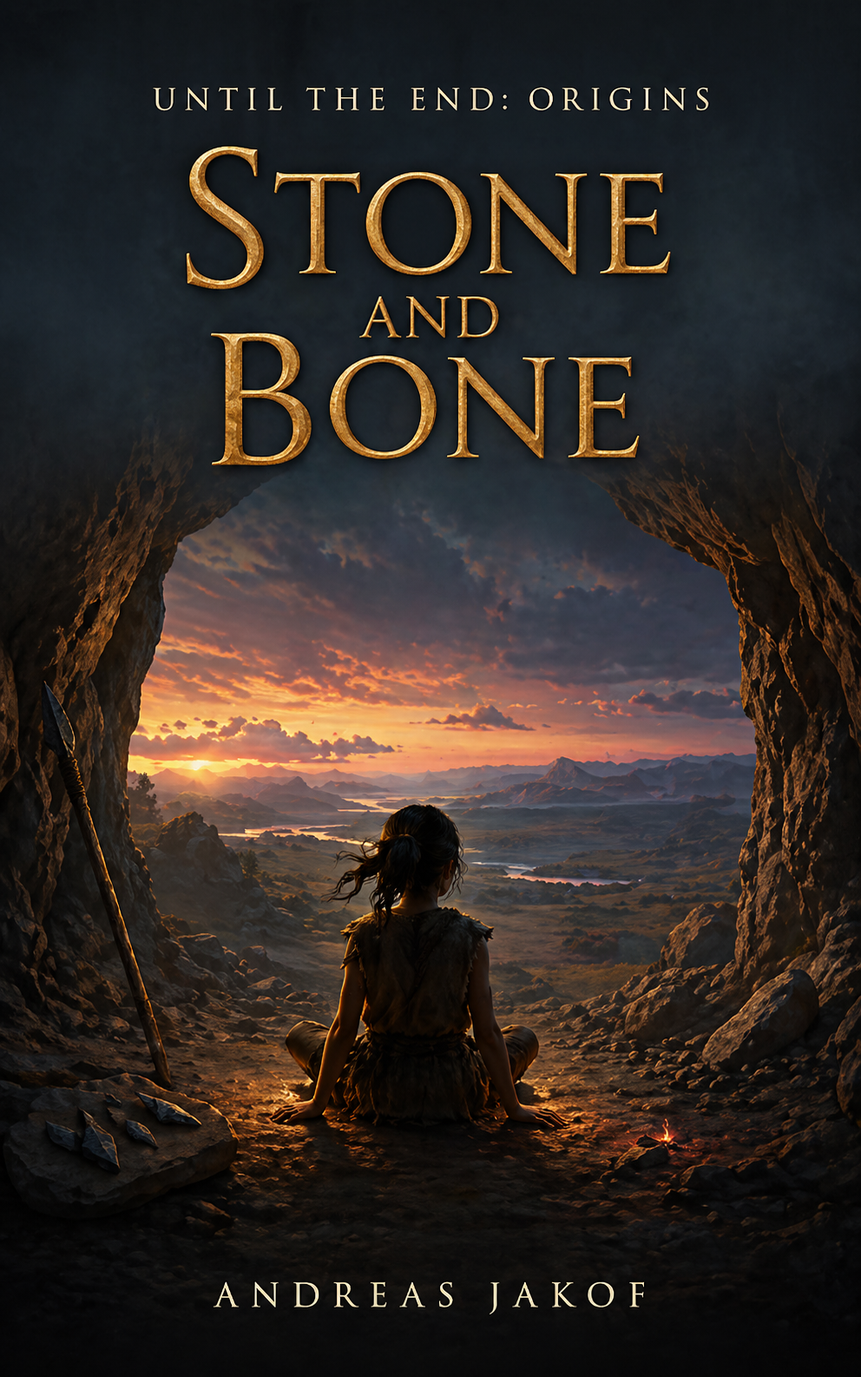
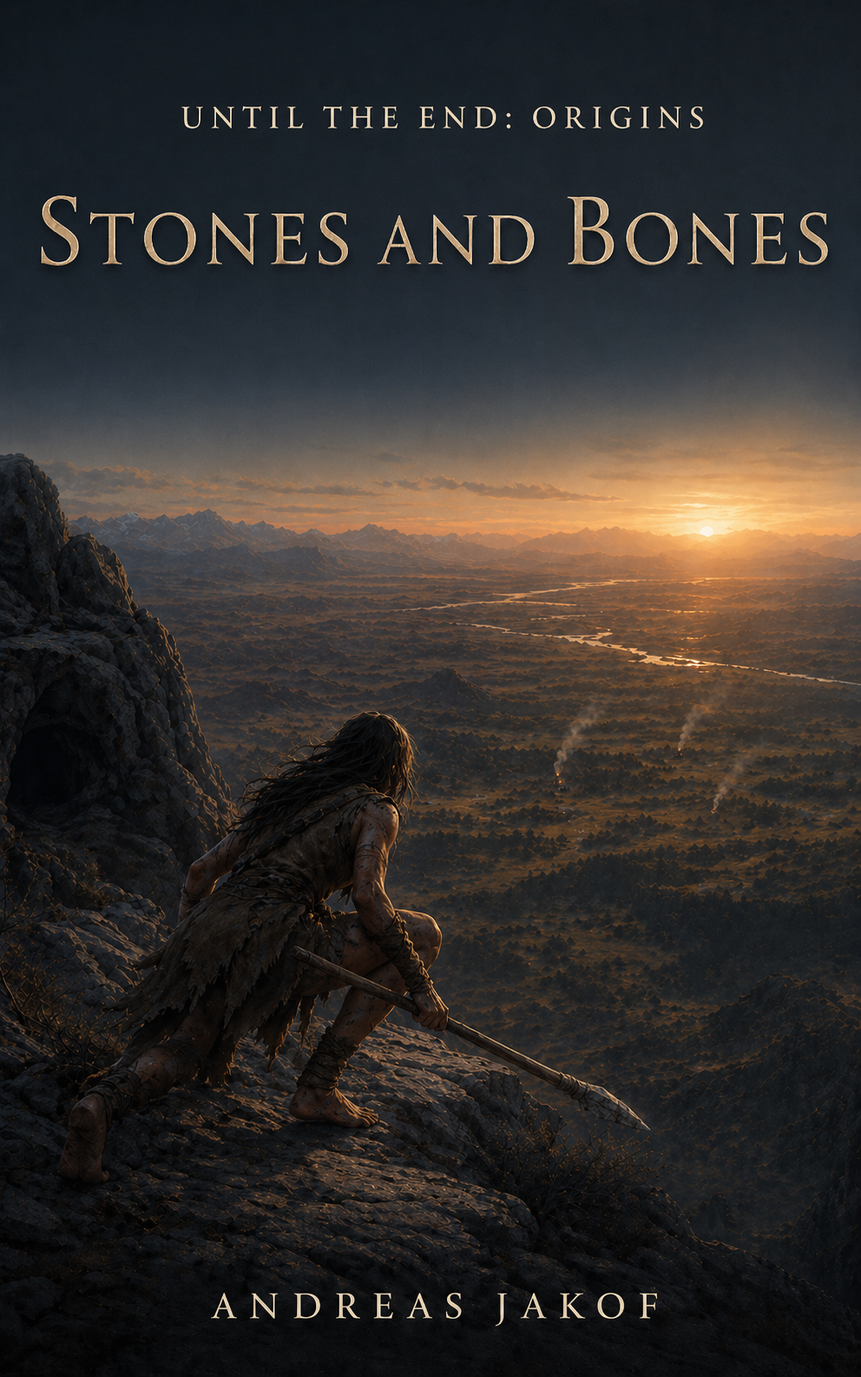
7-3-01-18

diff --git a/temp_analytics.py b/temp_analytics.py
@@ -1,0 +1,22 @@
+import re, json
+
+with open('40 - WorkingStuff/Analytics/General Analytics _ Royal Road-2026-04-13T11-50.html', 'r', encoding='utf-8') as f:
+    content = f.read()
+
+m = re.search(r'readerActivityData\s*=\s*(\[.*?\]);', content, re.DOTALL)
+data = json.loads(m.group(1))
+print(f"Chapters: {len(data)}")
+total = sum(ch.get('views', 0) for ch in data)
+print(f"Total views: {total}")
+print()
+print("First 5:")
+for ch in data[:5]:
+    t = ch.get('title', '?')[:35]
+    v = ch.get('views', 0)
+    print(f"  {t:35s} {v:>5}")
+print()
+print("Last 10:")
+for ch in data[-10:]:
+    t = ch.get('title', '?')[:35]
+    v = ch.get('views', 0)
+    print(f"  {t:35s} {v:>5}")

diff --git a/20 - Chapters/02 - UTE/7 - Clouds/7-2-09-17.md b/20 - Chapters/02 - UTE/7 - Clouds/7-2-09-17.md
@@ -1,19 +1,16 @@
-You were cooking.
-Evening. The rain had stopped, or paused, the mountain's weather operating in cycles that didn't align with human schedules. The fire was going, the pot was on, the rice was on. You were talking. About nothing. About everything that constituted nothing, which was to say: about the mundane, aggressively ordinary content of a life lived alongside the extraordinary.
+The rain stopped, or paused. The fire was going, the pot was on, the rice was on. You were talking. About nothing. About everything that constituted nothing. About the mundane, aggressively ordinary content of a life lived alongside me.
 
-"The provisions need reorganizing," you said. "The herb pouch is leaking again. I patched it with thread but thread doesn't hold on oiled leather, it slides and the knot, the knot I used was wrong, I should have used a Zhuo-knot, the fisherman's kind that tightens under pressure rather than —"
+"... needs reorganizing," you mumbled. "The herb pouch is leaking again. The stitching frayed where it bends, right at the fold, which means I need to re-sew the whole seam, and I should use a waxed thread this time, but I don't have waxed thread so I'll have to wax it myself with candle tallow, which means melting the candle, which ..."
 
-You talked while you cooked. The talking was not communication. Not in the information-transfer sense. The talking was texture. The sound of a human being occupying time with language, filling the silence that would otherwise fill itself with the weight of everything that silence contained. You talked about the herb pouch and the knot and the stone he'd found that had a peculiar color and the way the rain had smelled different at this altitude.
+You talked while you cooked. The talking was not communication. The talking was texture. The sound of a human being occupying time with language, filling the silence that would otherwise fill itself with the weight of everything that silence contained. You talked about the herb pouch and the way the rain had smelled different at this altitude.
 
 You were, specifically and deliberately, being annoying.
 
-Not the unintentional annoyance of someone who doesn't realize they're talking too much. The tactical annoyance of a man who understood that his companion's interior landscape was a territory of dangerous weight and that the antidote to dangerous weight was, sometimes, the trivial, the mundane, the stupid. You were filling the space with normalcy the way you fill a hole with gravel. Not to beautify but to stabilize.
+Not the unintentional annoyance of someone who doesn't realize they're talking too much. The tactical annoyance of a man who understood that his companion's interior landscape was a territory of dangerous weight. And that the antidote to dangerous weight was, sometimes, the trivial, the mundane, the stupid. You were filling the space with normalcy the way you fill a hole with gravel. Not to beautify but to stabilize.
 
-"— and the rice needs watching because the fire is uneven tonight and the heat distribution is off, which means the left side burns faster than the right, which means I need to rotate the pot every —"
+"... and the rice needs watching because the fire is uneven and the heat distribution is off, which means the left side burns faster than the right, which means I need to rotate the pot every ..."
 
-I took the spoon from your hand.
-
-Quietly. Simply. I reached across the fire — the distance between us, the space that separated my cooking-abstinence from your cooking-monopoly — and I took the wooden spoon from your hand and I put it in the pot and I stirred.
+Quietly. Simply. I reached across the fire — the distance between us, the space that separated my cooking-abstinence from your cooking-monopoly — and I took the wooden spoon from your hand, put it in the pot and stirred.
 
 Rice. In a pot. Over a fire. The simplest mechanical act in the history of human food preparation. The circular motion of a utensil in a container, redistributing heat, preventing adhesion, the physics of cooking reduced to its most fundamental operation. Stir.
 
@@ -21,21 +18,17 @@ I stirred.
 
 You leaned back.
 
-You said nothing. The talking stopped — the tactical annoyance mission completed, its objective achieved not by the words but by the irritation the words produced, the irritation that had mobilized an arm that had been idle, that had prompted a hand to reach, that had resulted in the unremarkable, entirely mundane act of a woman stirring rice.
-
-You SAW it.
-
-The moment. The diagnostic recognition of a scholar identifying significance in the ordinary. The woman who had not cooked since the ridge, who had eaten or not eaten what was placed in front of her, who had been a recipient rather than a participant in the daily mechanics of sustenance. This woman had taken the spoon. Had stirred. Had inserted herself into the operational chain of meal preparation.
+The talking stopped. The tactical annoyance mission completed, its objective achieved not by the words but by the irritation the words produced. The irritation that had mobilized an arm that had been idle, that had prompted a hand to reach, that had resulted in the unremarkable, entirely mundane act of a woman stirring rice.
 
 A spoon in a pot. The smallest possible agency.
 
-I stirred. The rice was fine. Adequate. The fire was uneven, as you had said, and the left side was indeed cooking faster and the rotation was necessary and the attention to these details was real. Physical. Present. The attention of a body performing a task that required no conviction, no immortal power, no cosmic architecture. Just a hand, a spoon and the patience to keep moving them until the rice was done.
+I stirred. The rice was fine. Adequate. The fire was uneven, as you had said, and the left side was indeed cooking faster. So the rotation was necessary and the attention to these details was real. Physical. Present. Performing a task that required no conviction, no immortal power, no cosmic architecture. Just a hand, a spoon and the patience to keep moving them until the rice was done.
 
-The steam rose. The fire settled. Xiǎohú appeared from wherever she had been sheltering during the rain and found her evening position, the triangle point, the third corner of whatever shape the three of us made in the world.
+Steam rose. The fire settled. Xiǎohú appeared from wherever she had been sheltering during the rain and found her evening position, the triangle point, the third corner of whatever shape the three of us made in the world.
 
-You watched me stir. Your face was doing the thing: the non-expression that contained everything, the mask that was transparent if you knew how to read it. I had learned to read it across years and a mountain and a partnership that neither of us had asked for and neither of us would trade.
+You watched me stir. Your face was doing its thing. The non-expression that contained everything, the mask that was transparent if you knew how to read it. I had learned to read it across mountains and a partnership that neither of us had asked for and neither of us would trade.
 
-What was on your face: relief. Not dramatic, not the gasping-surfacing kind. The quiet kind. The deep-structure kind. The relief of a man who had been watching someone you cared about not-participate in life and was now watching me stir rice.
+Relief was on your face. Not the gasping-surfacing kind. The quiet kind. The deep-structure kind. The relief of a man who had been watching someone he cared about not-participate in life and who was now stirring rice.
 
 I stirred until the rice was done. Served two bowls. Set your near the fire. Held mine.
 
@@ -45,6 +38,6 @@ I ate.
 
 Not all of it. Half the bowl. The other half cooled while I sat with it, while the fire settled, while the stars appeared and disappeared behind the thinning clouds. Half a bowl, eaten with the deliberate attention of someone for whom eating was a choice. A small, human, ordinary choice.
 
-The spoon in the pot. The rice in the bowl. The steam, rising.
+The spoon in the pot. The rice in the bowl. 
 
-You watched the steam rise and your silence was the right shape for the moment.
+You watched the steam rise and your silence was the right shape for this moment.

diff --git a/20 - Chapters/02 - UTE/7 - Clouds/7-3-01-18.md b/20 - Chapters/02 - UTE/7 - Clouds/7-3-01-18.md
@@ -1,19 +1,12 @@
-The fog was mine.
-I didn't know that yet — not at the start of the morning, not in the first minutes of walking when the mist sat low and thick in the valley like something poured. I thought it was weather. Mountain weather, the kind that arrived without consultation and departed without announcement, the atmospheric caprice of high altitudes where the difference between cloud and fog was a matter of elevation.
+We had returned to higher elevations. Following the direction I felt drawn to. The last place of our return was already behind us. The trail was narrower now, the last suggestion of maintained path giving way to animal tracks and geological accident — disappeared and reappeared in the white, the intermittent visibility that fog produced, the world flickering between present and absent with each shift of the moisture.
 
-We walked into it. The trail — narrower now, the last suggestion of maintained path giving way to animal tracks and geological accident — disappeared and reappeared in the white, the intermittent visibility that fog produced, the world flickering between present and absent with each shift of the moisture.
+The fog was mine. I didn't know that yet — not at the start of the morning, not in the first minutes of walking when the mist sat low and thick in the valley like something poured. I thought it was weather. Mountain weather, the kind that arrived without consultation and departed without announcement, the atmospheric caprice of high altitudes where the difference between cloud and fog was a matter of elevation.
 
-I stopped.
-
-No reason. No external trigger. The body stopped the way the body sometimes stopped, the legs ceasing their mechanical repetition without instruction from the mind, the halt arriving from somewhere below conscious decision.
-
-A date.
-
-I couldn't determine which. Wei's death? Your birthday? The distinction had blurred — not recently, not in the way that recent memories blur into each other, but across the geological timescale that separated now from then. Millennia had sanded the edges off exact dates until all that remained was the feeling: loss-shaped, Wei-colored, the shade of absence that your death had painted onto the calendar. The numbers were gone. The feeling was permanent.
+I stopped for no apparent reason. There was no external trigger. The legs ceasing their mechanical repetition without instruction from the mind, the halt arriving from somewhere below conscious decision.
 
 "What are you thinking about?" you said.
 
-You were beside me. Three steps had become zero steps since the training, the physical closing of distance that mirrored — everything. You could see it. You could see everything about me now, the way a doctor could read a body after years of practice: the micro-expression, the halted stride, the posture of a woman standing in fog and thinking about a dead boy.
+You were beside me and you could see it. You could see everything about me now. Like a doctor could read a body after years of practice. The micro-expression, the halted stride, the posture of a woman standing in fog and thinking about a dead boy.
 
 "Someone who was better than me," I said.
 
@@ -21,18 +14,18 @@ You were beside me. Three steps had become zero steps since the training, the ph
 
 The delivery. Flat. Perfect. Your intonation that placed the line exactly on the border between provocation and comfort, the surgical deployment of humor that served as defibrillator for a heart that was threatening to stop.
 
-Almost a smile. The muscles around my mouth attempted the gesture — the upward pull, the contraction, the mechanical process of smiling — and achieved perhaps sixty percent of the intended result before the weight of the memory pulled them back.
+Almost a smile. The muscles around my mouth attempted the gesture — the upward pull, the contraction — and achieved perhaps sixty percent of the intended result before the weight of the memory pulled them back.
 
 Around us, the fog thickened.
 
-Not the gradual thickening of weather patterns responding to temperature and moisture. The immediate, responsive thickening of a medium responding to an emotion. The fog CLOSED. The visibility that had been ten meters became five, became three, the white pressing in from all sides with the intimacy of a world wrapping itself around a feeling it was compelled to express.
+Not the gradual thickening of weather patterns responding to temperature and moisture. The immediate, responsive thickening of a medium responding to an emotion. The fog closed. The visibility that had been ten meters became five, became three, the white pressing in from all sides with the intimacy of a world wrapping itself around a feeling it was compelled to express.
 
-Xiǎohú was a shape in the white — amber points at knee height, moving, the only color in a colorless world.
+Xiǎohú was a shape in the white — amber points at about knee height, moving, the only color in a colorless world.
 
-I didn't notice the fog was mine. Not yet. The awareness would come later — after the destruction, after the nest, after you named what I couldn't. For now, the fog was weather and the weather was cooperating with my mood and the cooperation was coincidence.
+I didn't notice the fog was mine. Not yet. For now, the fog was weather and the weather was cooperating with my mood and the cooperation was coincidence.
 
 Of course it was.
 
 We walked. The fog walked with us. The mountain continued its patient ascent beneath our feet, invisible now, present only as incline and texture and the effort of bodies climbing through impedance.
 
-You said nothing more. You walked beside me in the white and was quiet and the quiet was the right shape.
+You said nothing more.

diff --git a/Covers/Origins/CoverPrompt_1-StonesAndBones.md b/Covers/Origins/CoverPrompt_1-StonesAndBones.md
@@ -1,0 +1,35 @@
+Portrait book cover, 5:8, 1600×2560, premium KDP fantasy cover, for a prehistoric fantasy / proto-cultivation novel with painterly realism with restrained anime sensibility (Frieren-like restraint), cinematic lighting, atmospheric depth.
+
+Hard layout guides:
+- Top 30% is a calm, low-detail fog/gradient panel for typography (cool dark, no bright hotspots).
+- Bottom 12% is a calm, darker low-detail panel for author name (no highlights behind text). No Overlays, just less detail.
+- Main subject and key details must not intersect the top/bottom panels; strong readable silhouette at thumbnail size.
+
+Typography must be part of the image, consistent across the entire series:
+1) Series title: "UNTIL THE END: ORIGINS" centered, baseline at ~10% image height, classic Roman serif small caps (Trajan-like), generous tracking, off-white, subtle shadow/outline.
+2) Book title: "Stones and Bones" centered, baseline at ~22% image height, large premium serif, embossed/foil-stamped texture, warm amber-gold with subtle patina (like firelit stone), very readable, minimal premium shadow/outline.
+3) Author: "Andreas Jakof" centered, baseline at ~93% image height, same style as series title, off-white, subtle shadow/outline.
+
+No subtitle, no series number, no badges, no logos. Keep typography placement identical on every book.
+
+NEGATIVE PROMPT
+logo, watermark, frame, low-res, blurry, noisy, overexposed, neon, cyberpunk, sci-fi, guns, modern clothing, sexualized pose, cleavage, bikini armor, chibi, cartoonish, excessive magic effects, lightning storm, gore, horror monster focus, crowded scene, multiple main characters, medieval armor, swords, Asian temple architecture, robes, cultivation symbols, runes, HUD, UI elements.
+
+Scene:
+A high mountain ridge at dawn. The world below is vast — endless prehistoric wilderness stretching to the horizon. Rolling grassland, a distant river catching the first light, patches of forest dark against the pale earth. No roads. No structures. A world that belongs to no one.
+
+Main subject: a girl (Mei), around 14-15, standing on the ridge's edge, seen from a low three-quarter back angle. She is lean, angular, feral — bare arms scarred, hair long and wind-tangled, wearing simple animal hides that are worn thin and repaired many times. Barefoot on cold stone. In her right hand, held low at her side: a stone-tipped spear, crude but well-made. Not raised in threat — just carried. Part of her.
+
+Her posture: weight forward slightly, shoulders set, chin lifted. The stillness of a predator surveying territory, not a child admiring a view. There is nothing soft about her. She is sixteen summers old and looks like something the mountain made.
+
+Far below, barely visible in the valley: three thin columns of smoke. Campfires. People. Too far to reach, too close to forget. The smoke is the only sign of human life in the entire landscape — tiny, fragile, irrelevant to the stone and sky around it. She is looking toward it. Not moving toward it.
+
+The light: dawn breaking behind the mountains to the east. The sky graduates from deep indigo at the top to bruised amber at the horizon. The first rays catch the edge of Mei's silhouette — a thin line of warm gold outlining her shoulder, her hair, the spear tip. The rest of her is in cool shadow. The contrast: she stands between warmth and cold. Between light and dark. Between the world of people below and the empty mountain behind her.
+
+One subtle detail: the air immediately around her hands and forearms carries a faint heat-distortion — barely visible, like the shimmer above sun-baked stone. Not magic. Not glowing. Just warmth where warmth should not be, on a cold mountain at dawn.
+
+The ridge itself: raw grey stone, lichen in patches, a few wind-bent scrub bushes clinging to cracks. Behind her (deeper in the image, less detailed): the dark mouth of a cave entrance, half-hidden by rock. Her den. Her place.
+
+Color palette: cool blue-grey dominates (stone, sky, distance), with warm amber concentrated at the horizon and as a thin rim-light on Mei. The smoke below is a soft warm grey. The heat-shimmer around her hands is the only warm accent in the cold composition — isolated warmth in a cold world.
+
+Composition: strong readable silhouette at thumbnail size; figure in the lower-center third of the image; the vast landscape provides scale (she is small against it, but dominant in posture); top 25-30% is clean dawn sky graduating to dark for title placement; bottom area is darker stone for author name; cinematic lighting; atmospheric depth; painterly realism with restrained anime sensibility (Frieren-like restraint), emotionally quiet, raw, primal.

diff --git a/20 - Chapters/02 - UTE/7 - Clouds/7-3-02-19.md b/20 - Chapters/02 - UTE/7 - Clouds/7-3-02-19.md
@@ -1,15 +1,12 @@
-The burst came without warning.
-That was the nature of it: the cruelty of a power that operated below conscious access, the involuntary reflex of reality-shaping firing before the mind could intervene. Just the moment before and the moment after and between them: annihilation.
+The burst came as the cruelty of a power that operated below conscious access, the involuntary reflex of reality-shaping firing before the mind could intervene. Just the moment before and the moment after and between them — annihilation.
 
-I was thinking about the nest.
-
-Not this nest, not yet. I was thinking about a nest I'd seen years ago. Decades. Centuries. The blur of time that made it impossible to locate the memory precisely. A bird's nest in a plum tree. Three eggs, speckled, warm. I'd touched one. The shell had been thin enough to feel the life inside, the fragility that separated existence from absence, the membrane between being and not-being that was thinner than paper and stronger than intent.
+I was thinking about a nest I'd seen years ago. Decades. Centuries. The blur of time that made it impossible to locate the memory precisely. A bird's nest in a plum tree. Three eggs, speckled, warm. I'd touched one. The shell had been thin enough to feel the life inside, the fragility that separated existence from absence, the membrane between being and not-being that was thinner than paper and stronger than intent.
 
 I was thinking about how fragile things survived.
 
 And the world broke.
 
-The trees went first. Vanished. The word "disintegrate" implied a process, a sequential dismantling of structure into component parts, but this was instantaneous. The trees within a hundred steps simply ceased. The trunks became dust. The branches became memory. The leaves became white air, emptied of substance, emptied of history. The trees were there and then the space held only the shape of their absence and the transition occupied no time.
+The trees were sheared. Not vanished — sheared. The trunks remained below the cut, knee-high stumps in a perfect circle, their cross-sections smooth as polished stone. Everything above — canopy, branches, the mass of a hundred trees from shoulder height upward — was dust. White air. The transition occupied no time.
 
 The sound was a hush — the collective exhalation of a hundred trees ceasing to exist at once, the vacuum that formed where mass had been, the momentary silence of air rushing to fill the space that matter had evacuated. Then: the rush. Wind from all directions, converging on the circle of nothing I'd created.
 
@@ -23,7 +20,7 @@ In the cleared air, the damage was worse than the experience of causing it. A ci
 
 You were on the ground.
 
-You'd ducked. Instinct: the body's response to a pressure wave that shouldn't have existed, the physical shockwave that accompanied the erasure of a small forest. You were unhurt. The circle had been precise in its destruction, a geometrically perfect expression of an imprecise emotion and you had been — barely — outside its radius.
+You'd felt it build — the qi accumulating in the air around me, the pressure that preceded the release, the atmospheric tension that your body had learned to read across months of proximity. You'd dropped flat a half-second before the burst, face in the dirt, arms over your head, the instinctive compression of a body making itself small. The wave had passed above you — shoulder height, radiating outward like a horizontal blade, shearing everything at trunk-level and leaving what was below untouched.
 
 "A warning," you said, standing, brushing dust from your sleeves, "would have been nice."
 

diff --git a/20 - Chapters/03 - Origins/01 - Stones And Bones/4-08-21.md b/20 - Chapters/03 - Origins/01 - Stones And Bones/4-08-21.md
@@ -2,7 +2,7 @@ The bear came out of the ravine like a landslide with teeth. Mei had been tracki
 
 She did not feel the bear until it was close.
 
-It had been downwind, in the ravine, hidden by the rock walls that funneled the breeze away from her. When its warmth hit her chest, it was not the gradual approach of a moving animal — it was a wall. Huge. Dense. Hot. Like stepping into sunlight after being in a cave, except the sunlight had claws and weighed as much as five men.
+It had been in the ravine — deep, narrow, the rock dense and layered above it. When its warmth hit her chest, it was not the gradual approach of a moving animal — it was a wall. Huge. Dense. Hot. Like stepping into sunlight after being in a cave, except the sunlight had claws and weighed as much as five men.
 
 The bear came out of the scrub to her left. Fast — faster than something that large had any right to be. Brown, massive, shoulders rolling. It saw her in the same moment she saw it.
 

diff --git a/20 - Chapters/03 - Origins/01 - Stones And Bones/0-00-00.md b/20 - Chapters/03 - Origins/01 - Stones And Bones/0-00-00.md
@@ -1,0 +1,19 @@
+You know how her story ends.
+
+You've seen the weight of it — the tiredness, the silence, the thing inside her that would not let go. You've watched her find a reason to stay. You've watched her find her peace. Finally.
+
+But there was a beginning.
+
+Before Yun. Before the cultivation world had words for what she was. Before immortality became a prison she couldn't escape.
+
+There was a girl. Eight summers old. A tribe that moved with the water. A friend who climbed trees faster than anyone. A warmth under the earth that nobody else could feel.
+
+She didn't know what she was building. She didn't know it couldn't be undone.
+
+---
+
+**Until The End: Origins — Stones and Bones**
+
+*How does a god begin?*
+
+*With a child's hand pressed flat against the earth, feeling something that has no name.*

diff --git a/20 - Chapters/03 - Origins/01 - Stones And Bones/4-09-22.md b/20 - Chapters/03 - Origins/01 - Stones And Bones/4-09-22.md
@@ -1,4 +1,4 @@
-She went down in the third summer. The need came as it always did — not as a thought, not as a decision, but as a pressure behind her ribs that had nothing to do with the warm. A human pressure. The ancient, undeniable weight of a social animal separated from its kind.
+She went down in the second summer. The need came as it always did — not as a thought, not as a decision, but as a pressure behind her ribs that had nothing to do with the warm. A human pressure. The ancient, undeniable weight of a social animal separated from its kind.
 
 She had heard a bird that morning — two notes, repeated, a call meant for another bird. The answer came from across the valley, faint but certain. Two voices finding each other across distance. Mei sat in the cave entrance and listened until the calling stopped.
 

diff --git a/10 - Outlines/3_Origins/Concept.md b/10 - Outlines/3_Origins/Concept.md
@@ -10,7 +10,7 @@
 > **Im Text wird die Zeit nie explizit genannt.** Kein Datum, keine Jahreszahl, kein „vor X Jahren“. Der Leser erkennt „Steinzeit“ aus dem Setting — Werkzeuge, Lebensweise, Sprache, Tiere. Wann genau ist unerheblich.
 
 ## Arbeitstitel
-**Until The End: Origins — *Stone and Bone*** 
+**Until The End: Origins — *Stones and Bones*** 
 
 ## Logline
 Ein Steinzeit-Mädchen entdeckt als erste Lebende etwas Namenloses in sich — und bezahlt dafür mit allem, was sie zum Menschen macht.

diff --git a/20 - Chapters/03 - Origins/01 - Stones And Bones/1-01-01.md b/20 - Chapters/03 - Origins/01 - Stones And Bones/1-01-01.md
@@ -70,7 +70,7 @@ Koh was already up, pulling Mei by the arm.
 
 "Where?"
 
-"There." Koh pointed at a cluster of boulders near the tree line, already running.
+"There." Koh pointed at a cluster of boulders near the tree line and ran — arms out, head back, as though the air itself would carry her if she moved fast enough.
 
 Mei set her bundle down beside her mother's feet. Her mother glanced down at the bundle, then at Mei, then back at whatever she was doing with the sinew and the scraping tool.
 

diff --git a/20 - Chapters/03 - Origins/01 - Stones And Bones/4-12-25.md b/20 - Chapters/03 - Origins/01 - Stones And Bones/4-12-25.md
@@ -2,7 +2,7 @@ The cat found her on the ridge where the wind never stopped. She had been tracki
 
 The cat's warmth hit her chest like a thrown stone.
 
-Close. Impossibly close. It had come from downwind, using the same wind she was using. It was twenty paces behind her and moving fast.
+Close. Impossibly close. She had been focused forward — every thread of the warm pushed to the ibex, to the angle, to the kill. Behind her had been silence. Twenty paces. Moving fast.
 
 Mei turned.
 
